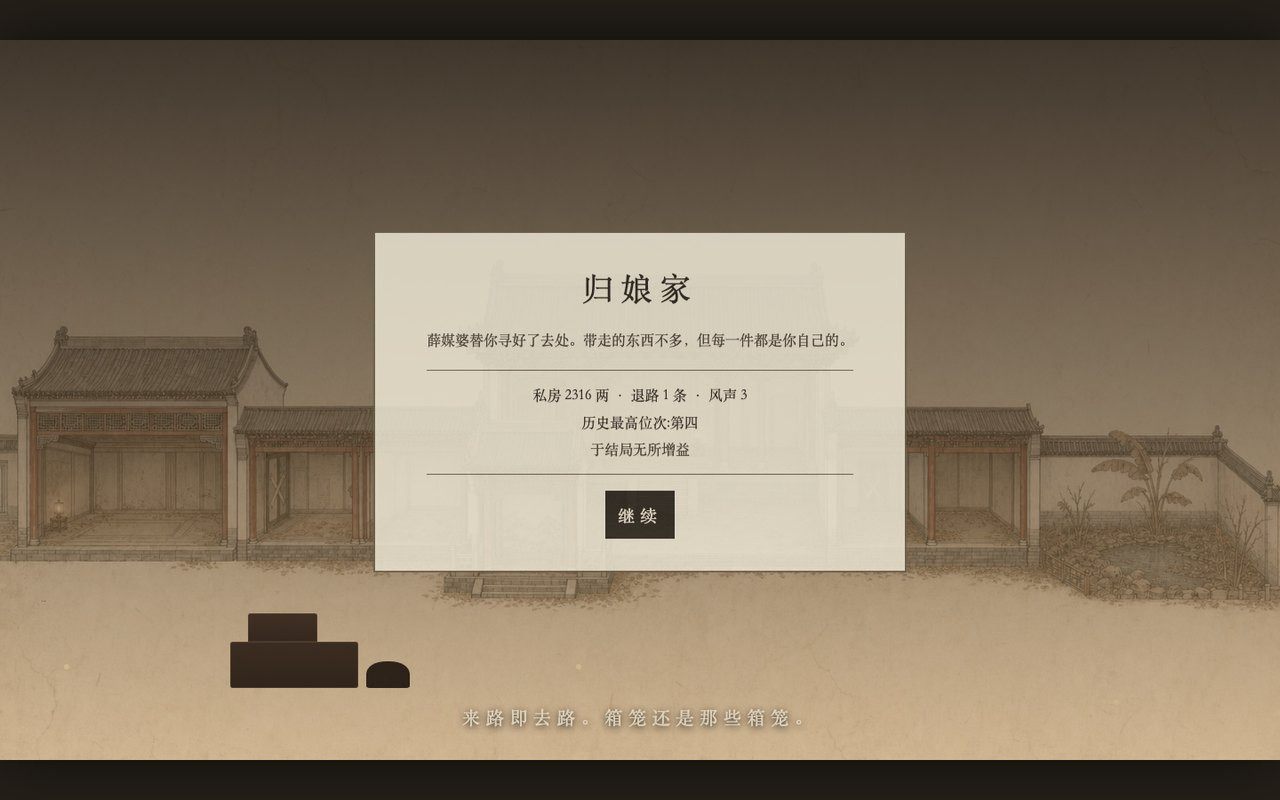
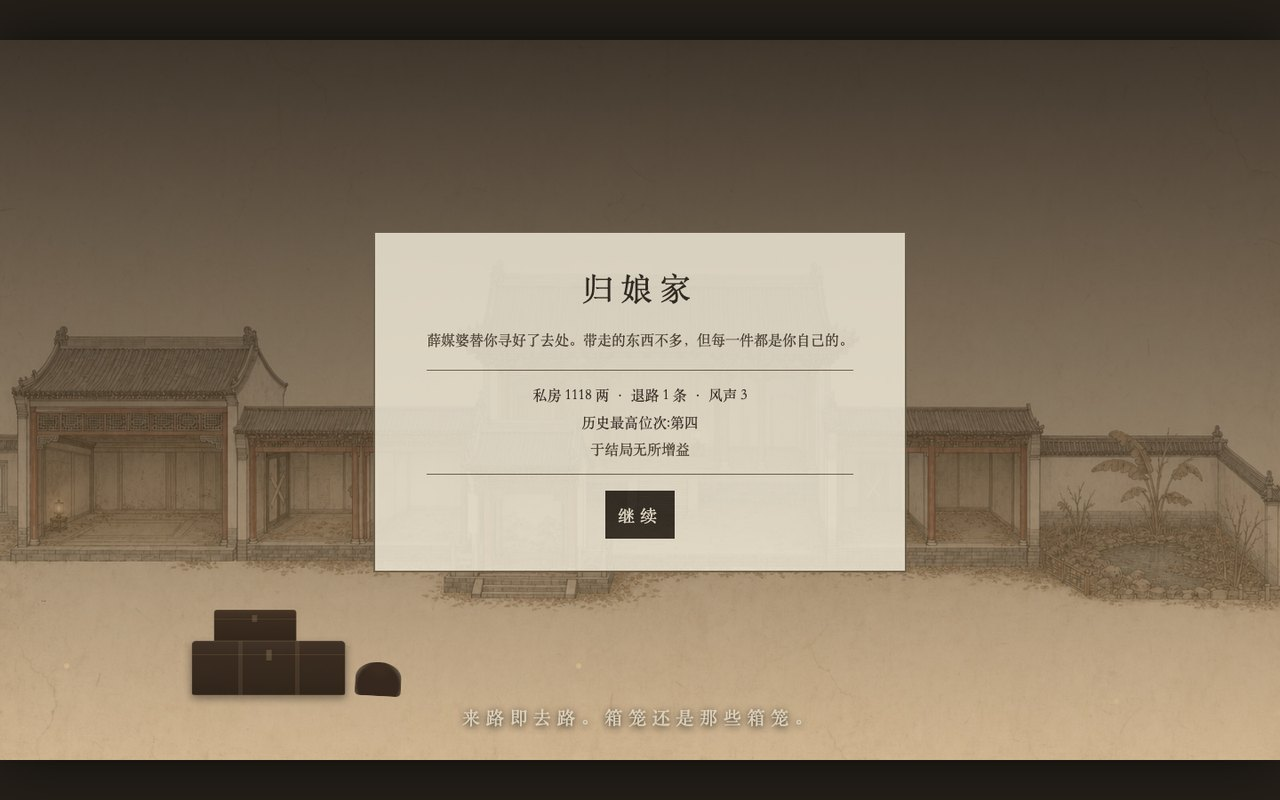
金瓶梅 playtest pass: rebalance the silver economy, tighten the endings
An adversarial playtest of the systems added over the previous three rounds —
lodging, 结·私, the five ending tableaux — validated headless across strategies,
not new features. Stayed inside jin-ping-mei; 西游记 untouched.

- Silver had saturated: every strategy piled past 2000 taels, so the 300/800
  ending thresholds no longer discriminated. Tightened the economy (max-hoard
  4828→2019, night-chasing 3127→928, mixed 1957→426) so the tiers mean something
  again. Verified all five endings arise naturally: 改嫁李衙内 from early hoarding,
  归娘家 from the 月娘 line, 守寡 from night-chasing, 流落/发落 from chasing the
  board — and 耗 ≥55 keeps the best ending out of reach, ≥85 forces 守寡.
- The two degenerate poles (chase-the-board always loses, max-hoard always wins)
  are the game's thesis, not a balance bug; everything between them spreads across
  real outcomes.
- Fixes caught in the screenshots: the 归娘家 chest silhouette is now stacked
  chests with a bundle instead of crude blocks; the chapter-79 clearing verse got
  a stronger shadow to read over the pale sky; the caller portrait stays inside
  its card.

106→109 engine assertions, 65→66 browser, zero console errors, byte-reproducible.
Live at jinpingmei.vibecoco.ai.

Claude-Session: https://claude.ai/code/session_01YWSMemJSwP5qcMqoSTVR9V

Changed region(s): [[0.125, 0.75, 0.3438, 0.875], [0.4375, 0.4688, 0.4688, 0.5]]

diff --git a/examples/jin-ping-mei/_progress.md b/examples/jin-ping-mei/_progress.md
@@ -9,7 +9,7 @@
 - 已完成：`analyze`、`concept`、`world-design`、`art-direction`
 - 构建状态：`done`（三轮打磨：留宿系统与定格演出、结·私主动示意、登门事件、二十四节令天色、五结局定格）
 - 美术状态：`done`（明代绣像资产 21 张；本轮修复四张立绘被压平的 alpha 通道）
-- 质量验证：`node test/ledger.mjs` 106 项、`python3 test/qa_browser.py` 65 项，控制台 0 报错
+- 质量验证：`node test/ledger.mjs` 109 项、`python3 test/qa_browser.py` 66 项，控制台 0 报错；银两经济与五结局可达性已 headless 复验
 - 授权状态：`public_domain_source`
 - 内容分级：`mature_17plus`（情欲作权力货币：留宿／失宠／争夜与其后果；
   笔法留白，停在帐幔落下那一刻；无性行为描写、无露骨台词、立绘着装完整）